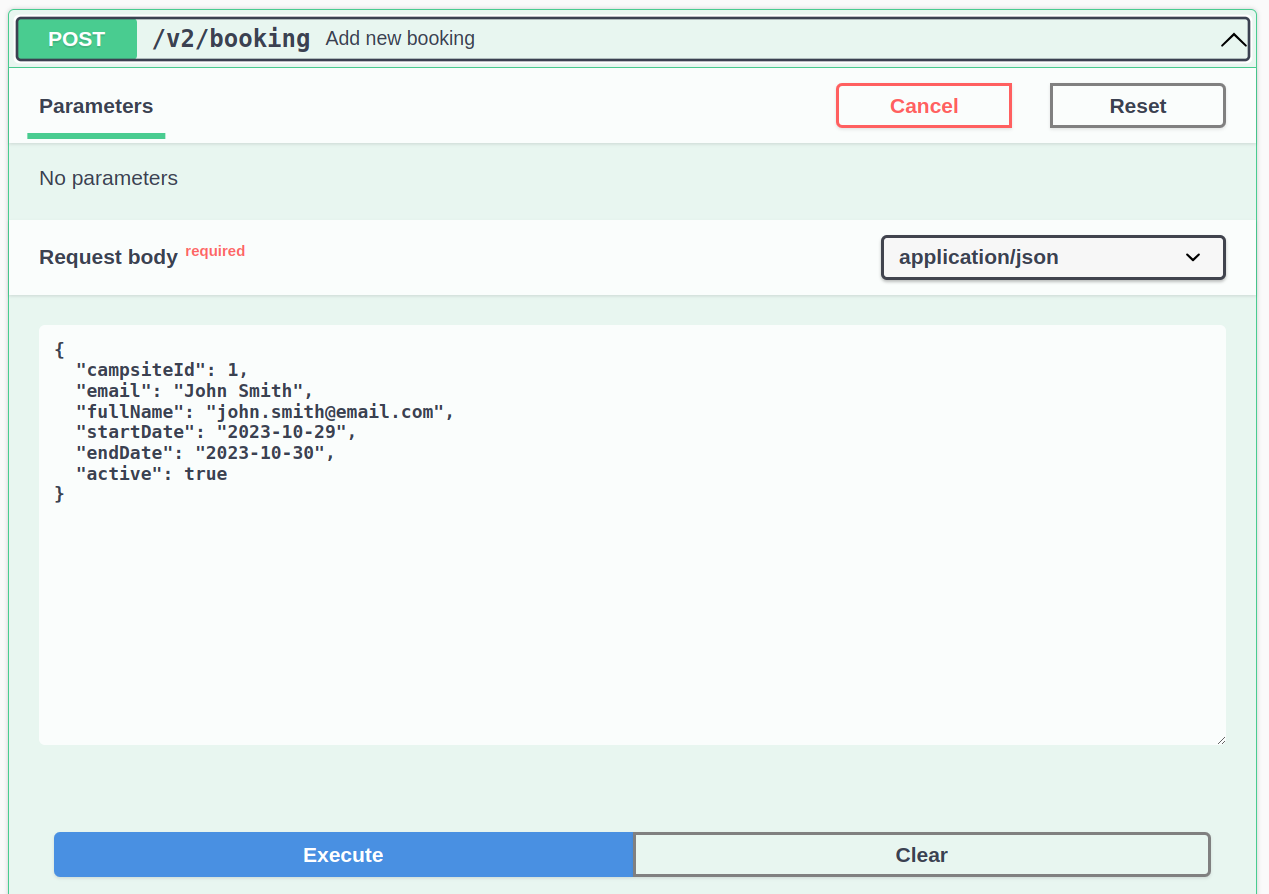
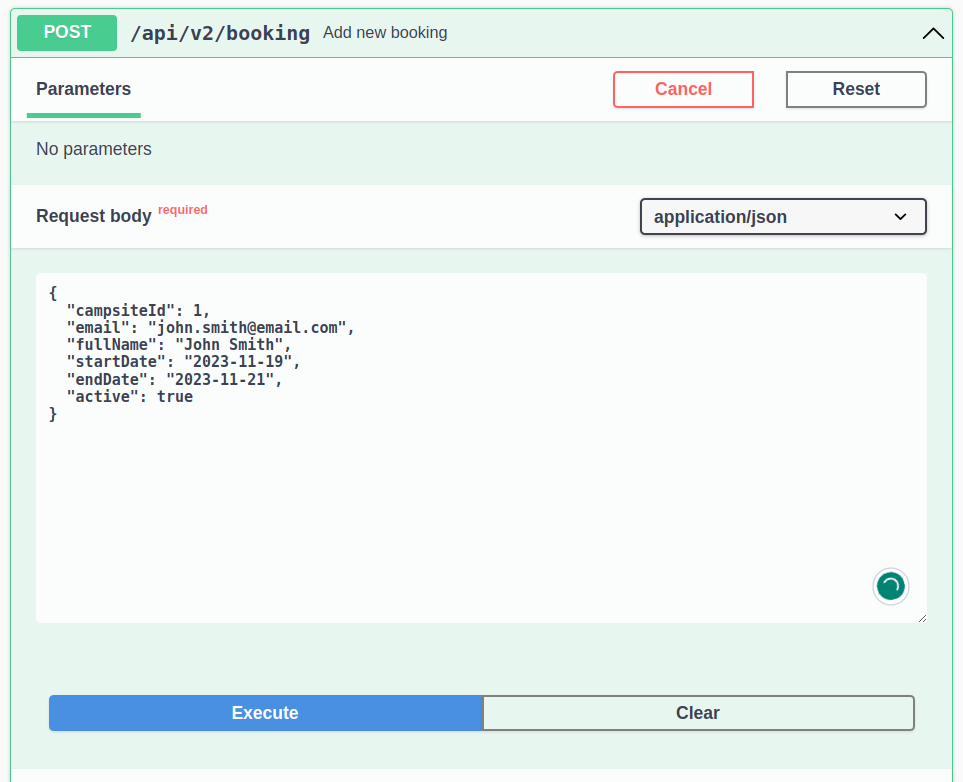
update images in README, add unit tests

diff --git a/campsite-booking-service/src/test/java/com/kiroule/campsitebooking/controller/BookingApiControllerTest.java b/campsite-booking-service/src/test/java/com/kiroule/campsitebooking/controller/BookingApiControllerTest.java
@@ -1,14 +1,17 @@
 package com.kiroule.campsitebooking.controller;
 
+import static com.kiroule.campsitebooking.TestDataHelper.*;
 import static java.time.LocalDate.now;
 import static java.util.Collections.singletonList;
 import static java.util.UUID.randomUUID;
 import static org.assertj.core.api.Assertions.assertThat;
 import static org.mockito.ArgumentMatchers.any;
 import static org.mockito.Mockito.*;
-import static org.springframework.http.HttpStatus.BAD_REQUEST;
-import static org.springframework.http.HttpStatus.OK;
+import static org.springframework.http.HttpStatus.*;
 
+import com.kiroule.campsitebooking.api.v2.dto.BookingDto;
+import com.kiroule.campsitebooking.mapper.BookingMapper;
+import com.kiroule.campsitebooking.model.Booking;
 import com.kiroule.campsitebooking.service.BookingService;
 import java.time.LocalDate;
 import java.util.List;
@@ -29,11 +32,37 @@ import org.springframework.http.ResponseEntity;
 @ExtendWith(MockitoExtension.class)
 public class BookingApiControllerTest {
 
-  @Mock
-  BookingService bookingService;
+  @Mock BookingService bookingService;
 
-  @InjectMocks
-  BookingApiControllerImpl classUnderTest;
+  @Mock
+  BookingMapper bookingMapper;
+
+  @InjectMocks BookingApiControllerImpl classUnderTest;
+
+  @Nested
+  class AddBooking {
+
+    @Test
+    void happy_path() {
+      // given
+      BookingDto bookingDto = nextBookingDto();
+      Booking booking = nextBooking();
+      when(bookingMapper.toBooking(any(BookingDto.class))).thenReturn(booking);
+      when(bookingService.createBooking(any(Booking.class))).thenReturn(booking);
+      when(bookingMapper.toBookingDto(any(Booking.class))).thenReturn(bookingDto);
+      // when
+      ResponseEntity<BookingDto> result = classUnderTest.addBooking(bookingDto);
+      // then
+      assertThat(result.getStatusCode()).isEqualTo(CREATED);
+      assertThat(result.getBody()).isEqualTo(bookingDto);
+      assertThat(result.getHeaders().getLocation().getPath())
+              .isEqualTo("/api/v2/booking/" + booking.getUuid());
+
+      verify(bookingMapper).toBooking(bookingDto);
+      verify(bookingService).createBooking(booking);
+      verify(bookingMapper).toBookingDto(booking);
+    }
+  }
 
   @Nested
   class GetVacantDates {
@@ -41,7 +70,24 @@ public class BookingApiControllerTest {
     private static final Long CAMPSITE_ID = 1L;
 
     @Test
-    void when_start_date_is_null__then_start_date_is_now_plus_one_day() {
+    void happy_path() {
+      // given
+      LocalDate now = now();
+      LocalDate startDate = now.plusDays(10);
+      LocalDate endDate = now.plusDays(15);
+      doReturn(singletonList(now.plusDays(12)))
+          .when(bookingService)
+          .findVacantDates(any(), any(), any());
+      // when
+      List<LocalDate> result =
+          classUnderTest.getVacantDates(CAMPSITE_ID, startDate, endDate).getBody();
+      // then
+      assertThat(result).isEqualTo(singletonList(now.plusDays(12)));
+      verify(bookingService).findVacantDates(startDate, endDate, CAMPSITE_ID);
+    }
+
+    @Test
+    void given_start_date_is_null__then_start_date_is_now_plus_one_day() {
       // given
       LocalDate now = now();
       LocalDate startDate = null;
@@ -58,7 +104,7 @@ public class BookingApiControllerTest {
     }
 
     @Test
-    void when_end_date_is_null__then_end_date_is_start_date_plus_one_month() {
+    void given_end_date_is_null__then_end_date_is_start_date_plus_one_month() {
       // given
       LocalDate now = now();
       LocalDate startDate = now.plusDays(15);
@@ -75,12 +121,11 @@ public class BookingApiControllerTest {
     }
   }
 
-
   @Nested
   class CancelBooking {
 
     @Test
-    void happyPath() {
+    void happy_path() {
       // given
       UUID uuid = randomUUID();
       when(bookingService.cancelBooking(any())).thenReturn(true);
@@ -92,7 +137,7 @@ public class BookingApiControllerTest {
     }
 
     @Test
-    void givenBookingIsNotCancelled_thenBadRequestIsReturned() {
+    void given_booking_is_not_cancelled__then_bad_request_is_returned() {
       UUID uuid = randomUUID();
       when(bookingService.cancelBooking(any())).thenReturn(false);
       // when

diff --git a/campsite-booking-service/src/main/java/com/kiroule/campsitebooking/controller/BookingApiControllerImpl.java b/campsite-booking-service/src/main/java/com/kiroule/campsitebooking/controller/BookingApiControllerImpl.java
@@ -1,18 +1,17 @@
 package com.kiroule.campsitebooking.controller;
 
 import static java.util.Objects.isNull;
+import static org.springframework.hateoas.server.mvc.WebMvcLinkBuilder.linkTo;
 import static org.springframework.http.HttpStatus.*;
 
 import com.kiroule.campsitebooking.api.v2.BookingApiDelegate;
 import com.kiroule.campsitebooking.api.v2.dto.BookingDto;
 import com.kiroule.campsitebooking.mapper.BookingMapper;
 import com.kiroule.campsitebooking.service.BookingService;
-import java.net.URI;
 import java.time.LocalDate;
 import java.util.List;
 import java.util.UUID;
 import lombok.AllArgsConstructor;
-import org.springframework.hateoas.server.mvc.WebMvcLinkBuilder;
 import org.springframework.http.HttpHeaders;
 import org.springframework.http.ResponseEntity;
 import org.springframework.stereotype.Service;
@@ -30,7 +29,7 @@ public class BookingApiControllerImpl implements BookingApiDelegate {
 
   @Override
   public ResponseEntity<List<LocalDate>> getVacantDates(
-          Long campsiteId, LocalDate startDate, LocalDate endDate) {
+      Long campsiteId, LocalDate startDate, LocalDate endDate) {
     if (isNull(startDate)) {
       startDate = LocalDate.now().plusDays(1);
     }
@@ -50,10 +49,12 @@ public class BookingApiControllerImpl implements BookingApiDelegate {
   @Override
   public ResponseEntity<BookingDto> addBooking(BookingDto bookingDto) {
     var booking = bookingService.createBooking(bookingMapper.toBooking(bookingDto));
-    var selfLink = WebMvcLinkBuilder.linkTo(this.getClass()).slash(booking.getUuid()).withSelfRel();
     var headers = new HttpHeaders();
-    headers.setLocation(URI.create(selfLink.getHref()));
-
+    headers.setLocation(
+        linkTo(BookingApiControllerImpl.class)
+            .slash("api/v2/booking")
+            .slash(booking.getUuid())
+            .toUri());
     return new ResponseEntity<>(bookingMapper.toBookingDto(booking), headers, CREATED);
   }
 
